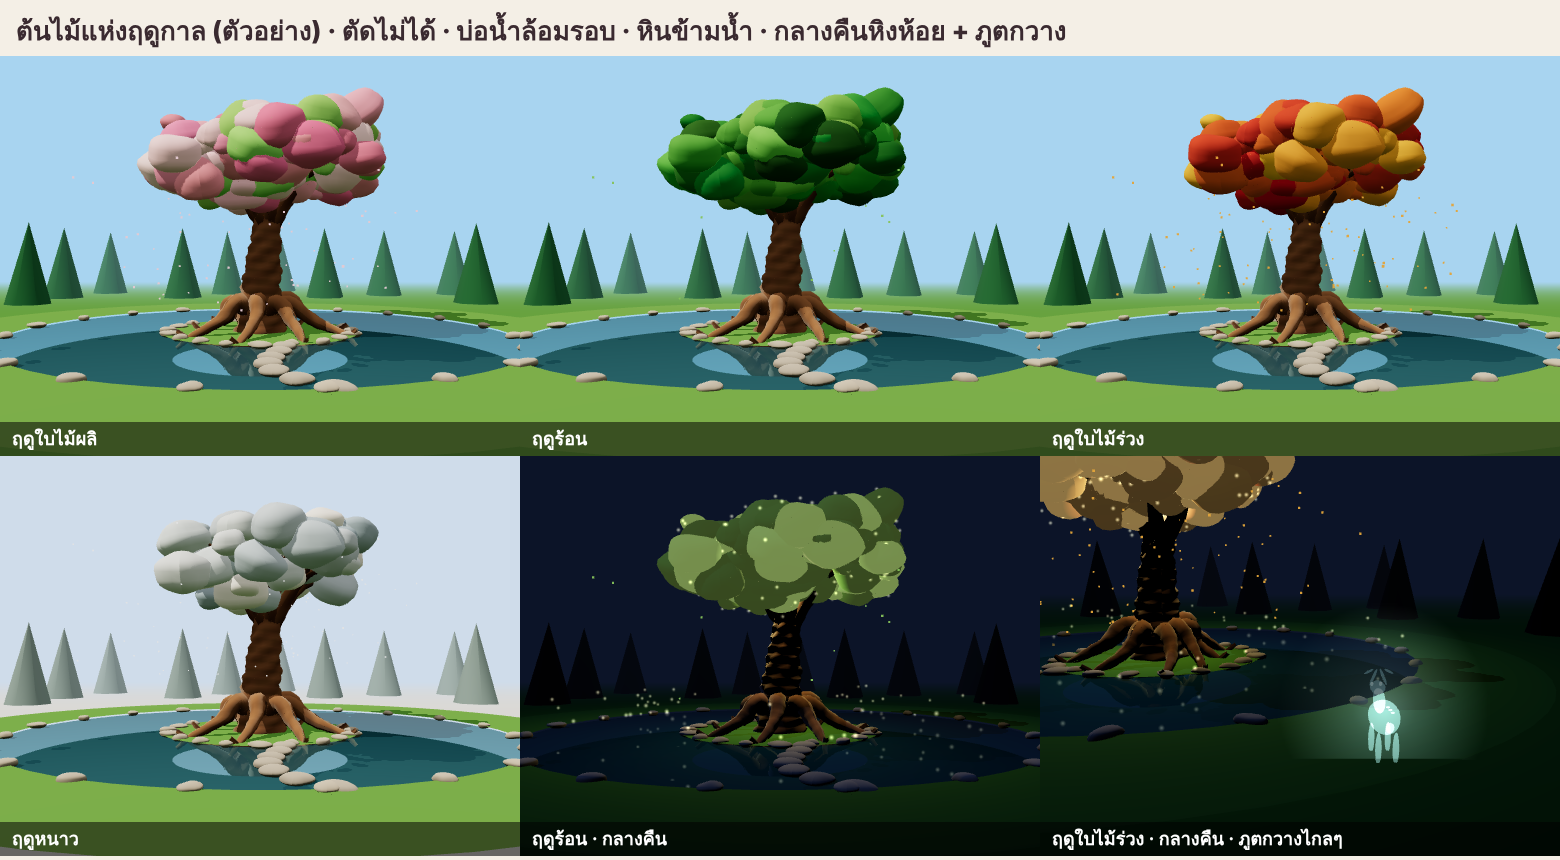
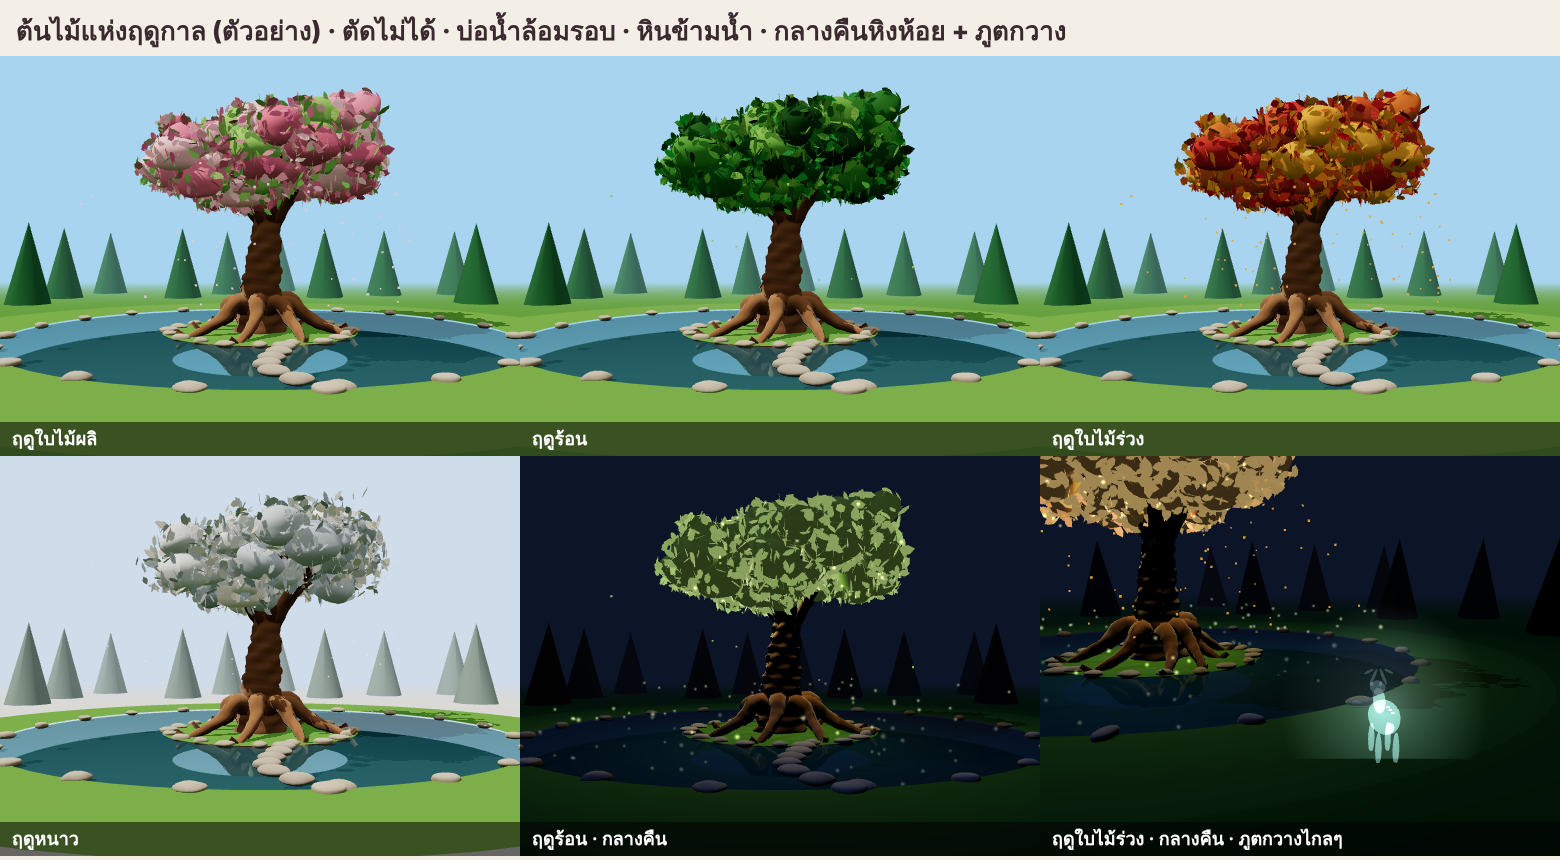
art(newgame): Great Tree with fine foliage (thousands of small leaves, one draw)
Claude-Session: https://claude.ai/code/session_01GPWeNez232vT9ersFNk7wt

diff --git a/newgame/src/greattree.js b/newgame/src/greattree.js
@@ -46,6 +46,13 @@ export function greatTree(o = {}) {
   const CL = new THREE.Group(); tree.add(CL); const clumps = [];
   for (const p of tips) for (let k = 0; k < 7; k++) { const r = .75 + R() * .95, ox = (R() - .5) * 3.2, oy = (R() - .35) * 1.9, oz = (R() - .5) * 3.2, m = new THREE.Mesh(blobGeo('#ffffff', '#ffffff', .12, 1.6, R() * 6, 18), new THREE.MeshStandardMaterial({ vertexColors: false, color: '#5aa840', roughness: .85, emissive: '#000000' }));
     m.position.set(p[0] + ox, p[1] + oy, p[2] + oz); m.scale.set(r, r * .72, r); m.rotation.set(R() * .6, R() * 6, R() * .6); m.castShadow = true; m.userData.k = R(); CL.add(m); clumps.push(m) }
+  /* fine foliage: thousands of small leaves on the clumps' surface (one draw) */
+  const LEAFG = (() => { const sh = new THREE.Shape(); sh.moveTo(0, -.2); sh.bezierCurveTo(.16, -.08, .16, .1, 0, .22); sh.bezierCurveTo(-.16, .1, -.16, -.08, 0, -.2); const g2 = new THREE.ShapeGeometry(sh, 3); return g2 })();
+  const NL = o.leaves || 9000, lmat = new THREE.MeshStandardMaterial({ roughness: .8, side: THREE.DoubleSide, emissive: '#000000' }), leaves = new THREE.InstancedMesh(LEAFG, lmat, NL), lk = new Float32Array(NL), lob = new THREE.Object3D();
+  for (let i = 0; i < NL; i++) { const c = clumps[i % clumps.length], a = R() * 6.283, b = Math.acos(1 - 2 * Math.pow(R(), .75)), r = .98 + R() * .14;
+    lob.position.set(c.position.x + Math.cos(a) * Math.sin(b) * c.scale.x * r, c.position.y + Math.cos(b) * c.scale.y * r, c.position.z + Math.sin(a) * Math.sin(b) * c.scale.z * r); lob.rotation.set(R() * 6.28, R() * 6.28, R() * 6.28); lob.scale.setScalar(1.3 + R() * 1); lob.updateMatrix(); leaves.setMatrixAt(i, lob.matrix); lk[i] = R() }
+  leaves.instanceColor = new THREE.InstancedBufferAttribute(new Float32Array(NL * 3), 3); leaves.castShadow = true; CL.add(leaves);
+  clumps.forEach(m => m.scale.multiplyScalar(.9));
   /* ---- the island, the pond round it, stepping stones across ---- */
   const ISL = 5.4, POND = 14.5;
   const grass = new THREE.Mesh(new THREE.CircleGeometry(ISL + .4, 48), new THREE.MeshStandardMaterial({ color: '#6aa848', roughness: 1 })); grass.rotation.x = -Math.PI / 2; grass.position.y = .02; g.add(grass);
@@ -73,11 +80,14 @@ export function greatTree(o = {}) {
   ANIMALS.deer(deer); deer.traverse(m => { if (m.isMesh) { m.material = dmat; m.castShadow = false } }); deer.scale.setScalar(1.4); const dhalo = new THREE.Sprite(new THREE.SpriteMaterial({ map: tex, color: '#7ad8ff', transparent: true, opacity: 0, depthWrite: false, blending: THREE.AdditiveBlending })); dhalo.scale.setScalar(4); dhalo.position.y = 1; deer.add(dhalo);
   const DEER_AT = [POND + 4.5, 0, -2]; deer.position.set(...DEER_AT); deer.rotation.y = -Math.PI / 2 - .4; g.add(deer);
   let cur = null, nightK = 0, deerK = 0;
-  function season(s) { cur = SEASON[s] ? s : 'summer'; const P = SEASON[cur];
-    clumps.forEach((m, i) => { m.visible = m.userData.k < P.fill; m.material.color.set(P.leaf[i % P.leaf.length]).offsetHSL((m.userData.k - .5) * .03, 0, (m.userData.k - .5) * .12) }); mirror.traverse(m => { if (m.isMesh && m.userData.k == null) return; });
+  const mLeaves = []; mirror.traverse(m => { if (m.isInstancedMesh) { m.instanceMatrix = leaves.instanceMatrix; mLeaves.push(m) } });
+  function season(s) { cur = SEASON[s] ? s : 'summer'; const P = SEASON[cur], c = new THREE.Color(), off = new THREE.Matrix4().makeScale(0, 0, 0);
+    for (let i = 0; i < NL; i++) { c.set(P.leaf[i % P.leaf.length]).offsetHSL((lk[i] - .5) * .04, 0, (lk[i] - .5) * .16); leaves.setColorAt(i, c) } leaves.instanceColor.needsUpdate = true;
+    leaves.count = Math.round(NL * P.fill); for (const m of mLeaves) { m.instanceColor = leaves.instanceColor; m.count = leaves.count }
+    clumps.forEach((m, i) => { m.visible = m.userData.k < P.fill; m.material.color.set(P.leaf[i % P.leaf.length]).offsetHSL(0, -.02, -.04 + (m.userData.k - .5) * .06) });   /* the inner volume, a shade darker under the leaves */ mirror.traverse(m => { if (m.isMesh && m.userData.k == null) return; });
     mirror.children.forEach(() => { }); const mc = []; mirror.traverse(m => { if (m.isMesh && m.geometry.type !== 'TubeGeometry') mc.push(m) }); mc.forEach((m, i) => { const src = clumps[i]; if (src) { m.visible = src.visible; m.material = src.material } });
     fmat.color.set(P.fall); fmat.size = cur === 'winter' ? .2 : .28; falls.userData.n = P.fallN }
-  function night(k) { nightK = k; const P = SEASON[cur || 'summer']; ffm.opacity = k; glow.intensity = 40 * k; clumps.forEach((m, i) => { m.material.emissive.set(P.glow); m.material.emissiveIntensity = (i % 3 ? .08 : .22) * k }) }
+  function night(k) { nightK = k; const P = SEASON[cur || 'summer']; ffm.opacity = k; glow.intensity = 40 * k; clumps.forEach((m, i) => { m.material.emissive.set(P.glow); m.material.emissiveIntensity = .06 * k }); lmat.emissive.set(P.glow); lmat.emissiveIntensity = .28 * k }
   function tick(t, dt, viewer) {
     const n = falls.userData.n || 0, p = fgeo.attributes.position; for (let i = 0; i < FN; i++) { const v = fv[i]; if (i >= n) { p.setXYZ(i, 0, -50, 0); continue } v[1] -= dt * (cur === 'winter' ? .7 : 1.1); v[3] += dt; const x = v[0] + Math.sin(v[3] * 1.3 + i) * .6, z = v[2] + Math.cos(v[3] + i) * .6; if (v[1] < .05) { v[0] = (R() - .5) * 18; v[1] = 9 + R() * 5; v[2] = (R() - .5) * 18 } p.setXYZ(i, x, v[1], z) } p.needsUpdate = true;
     ffm.size = .75 + Math.sin(t * 3) * .12;
